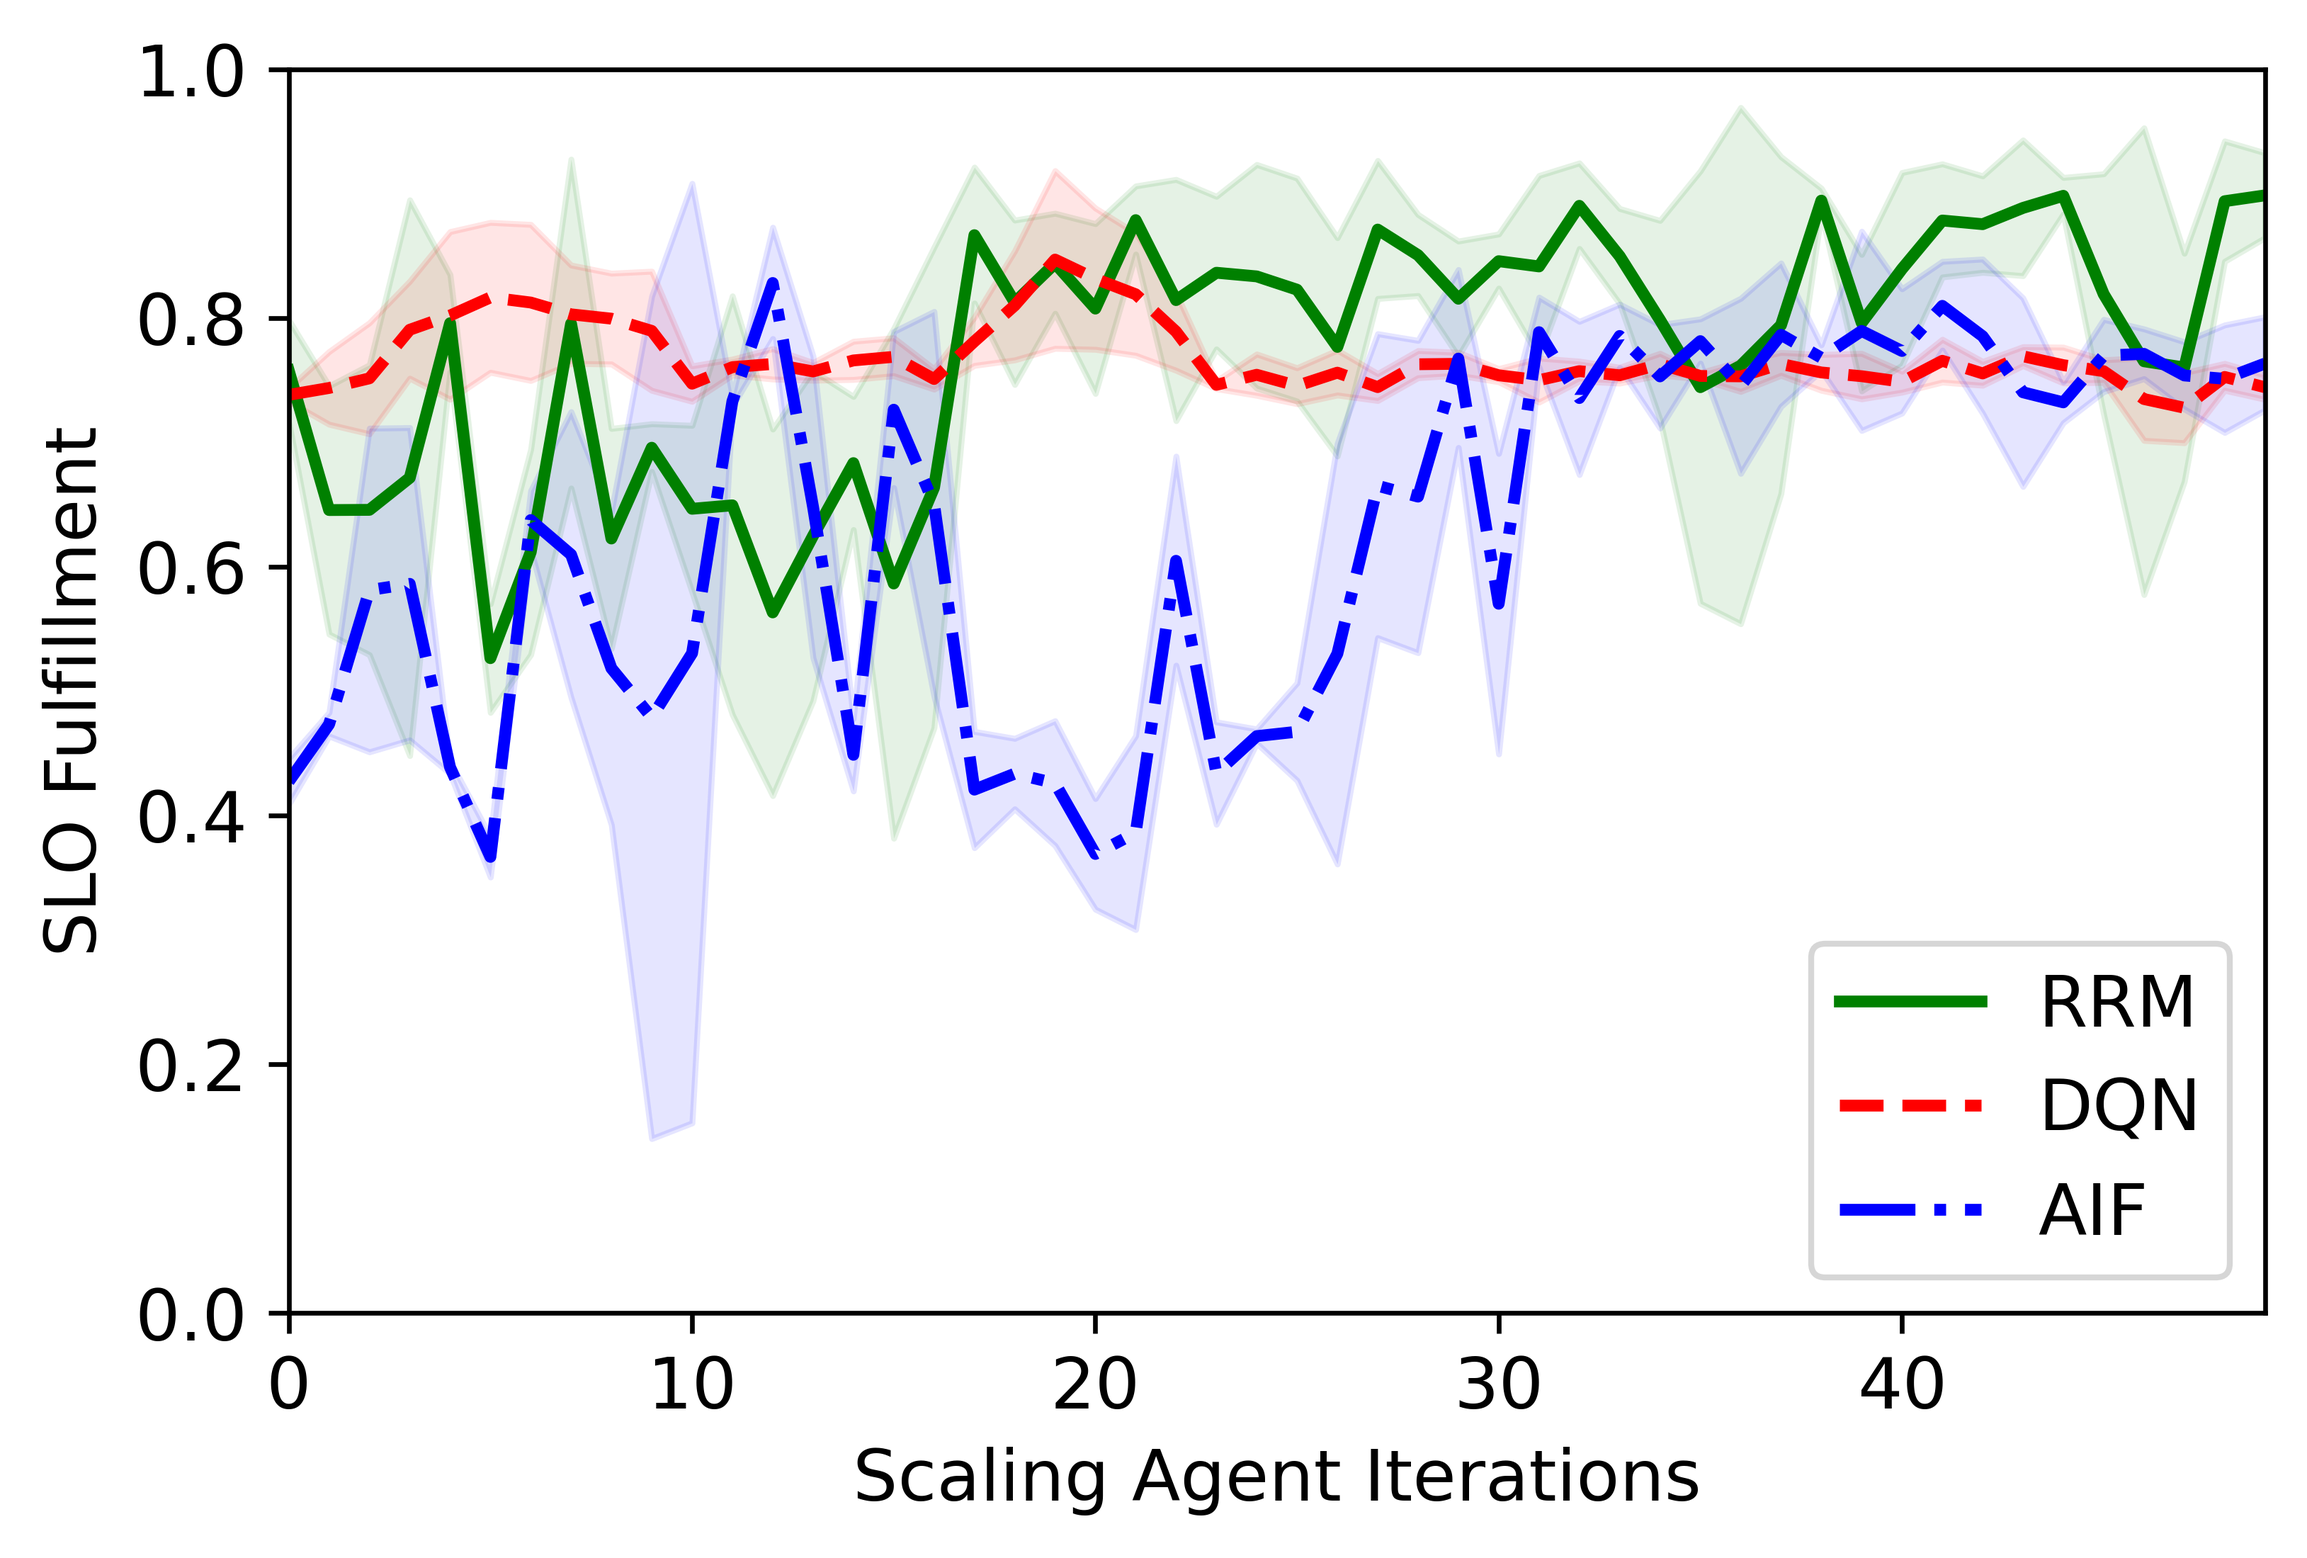
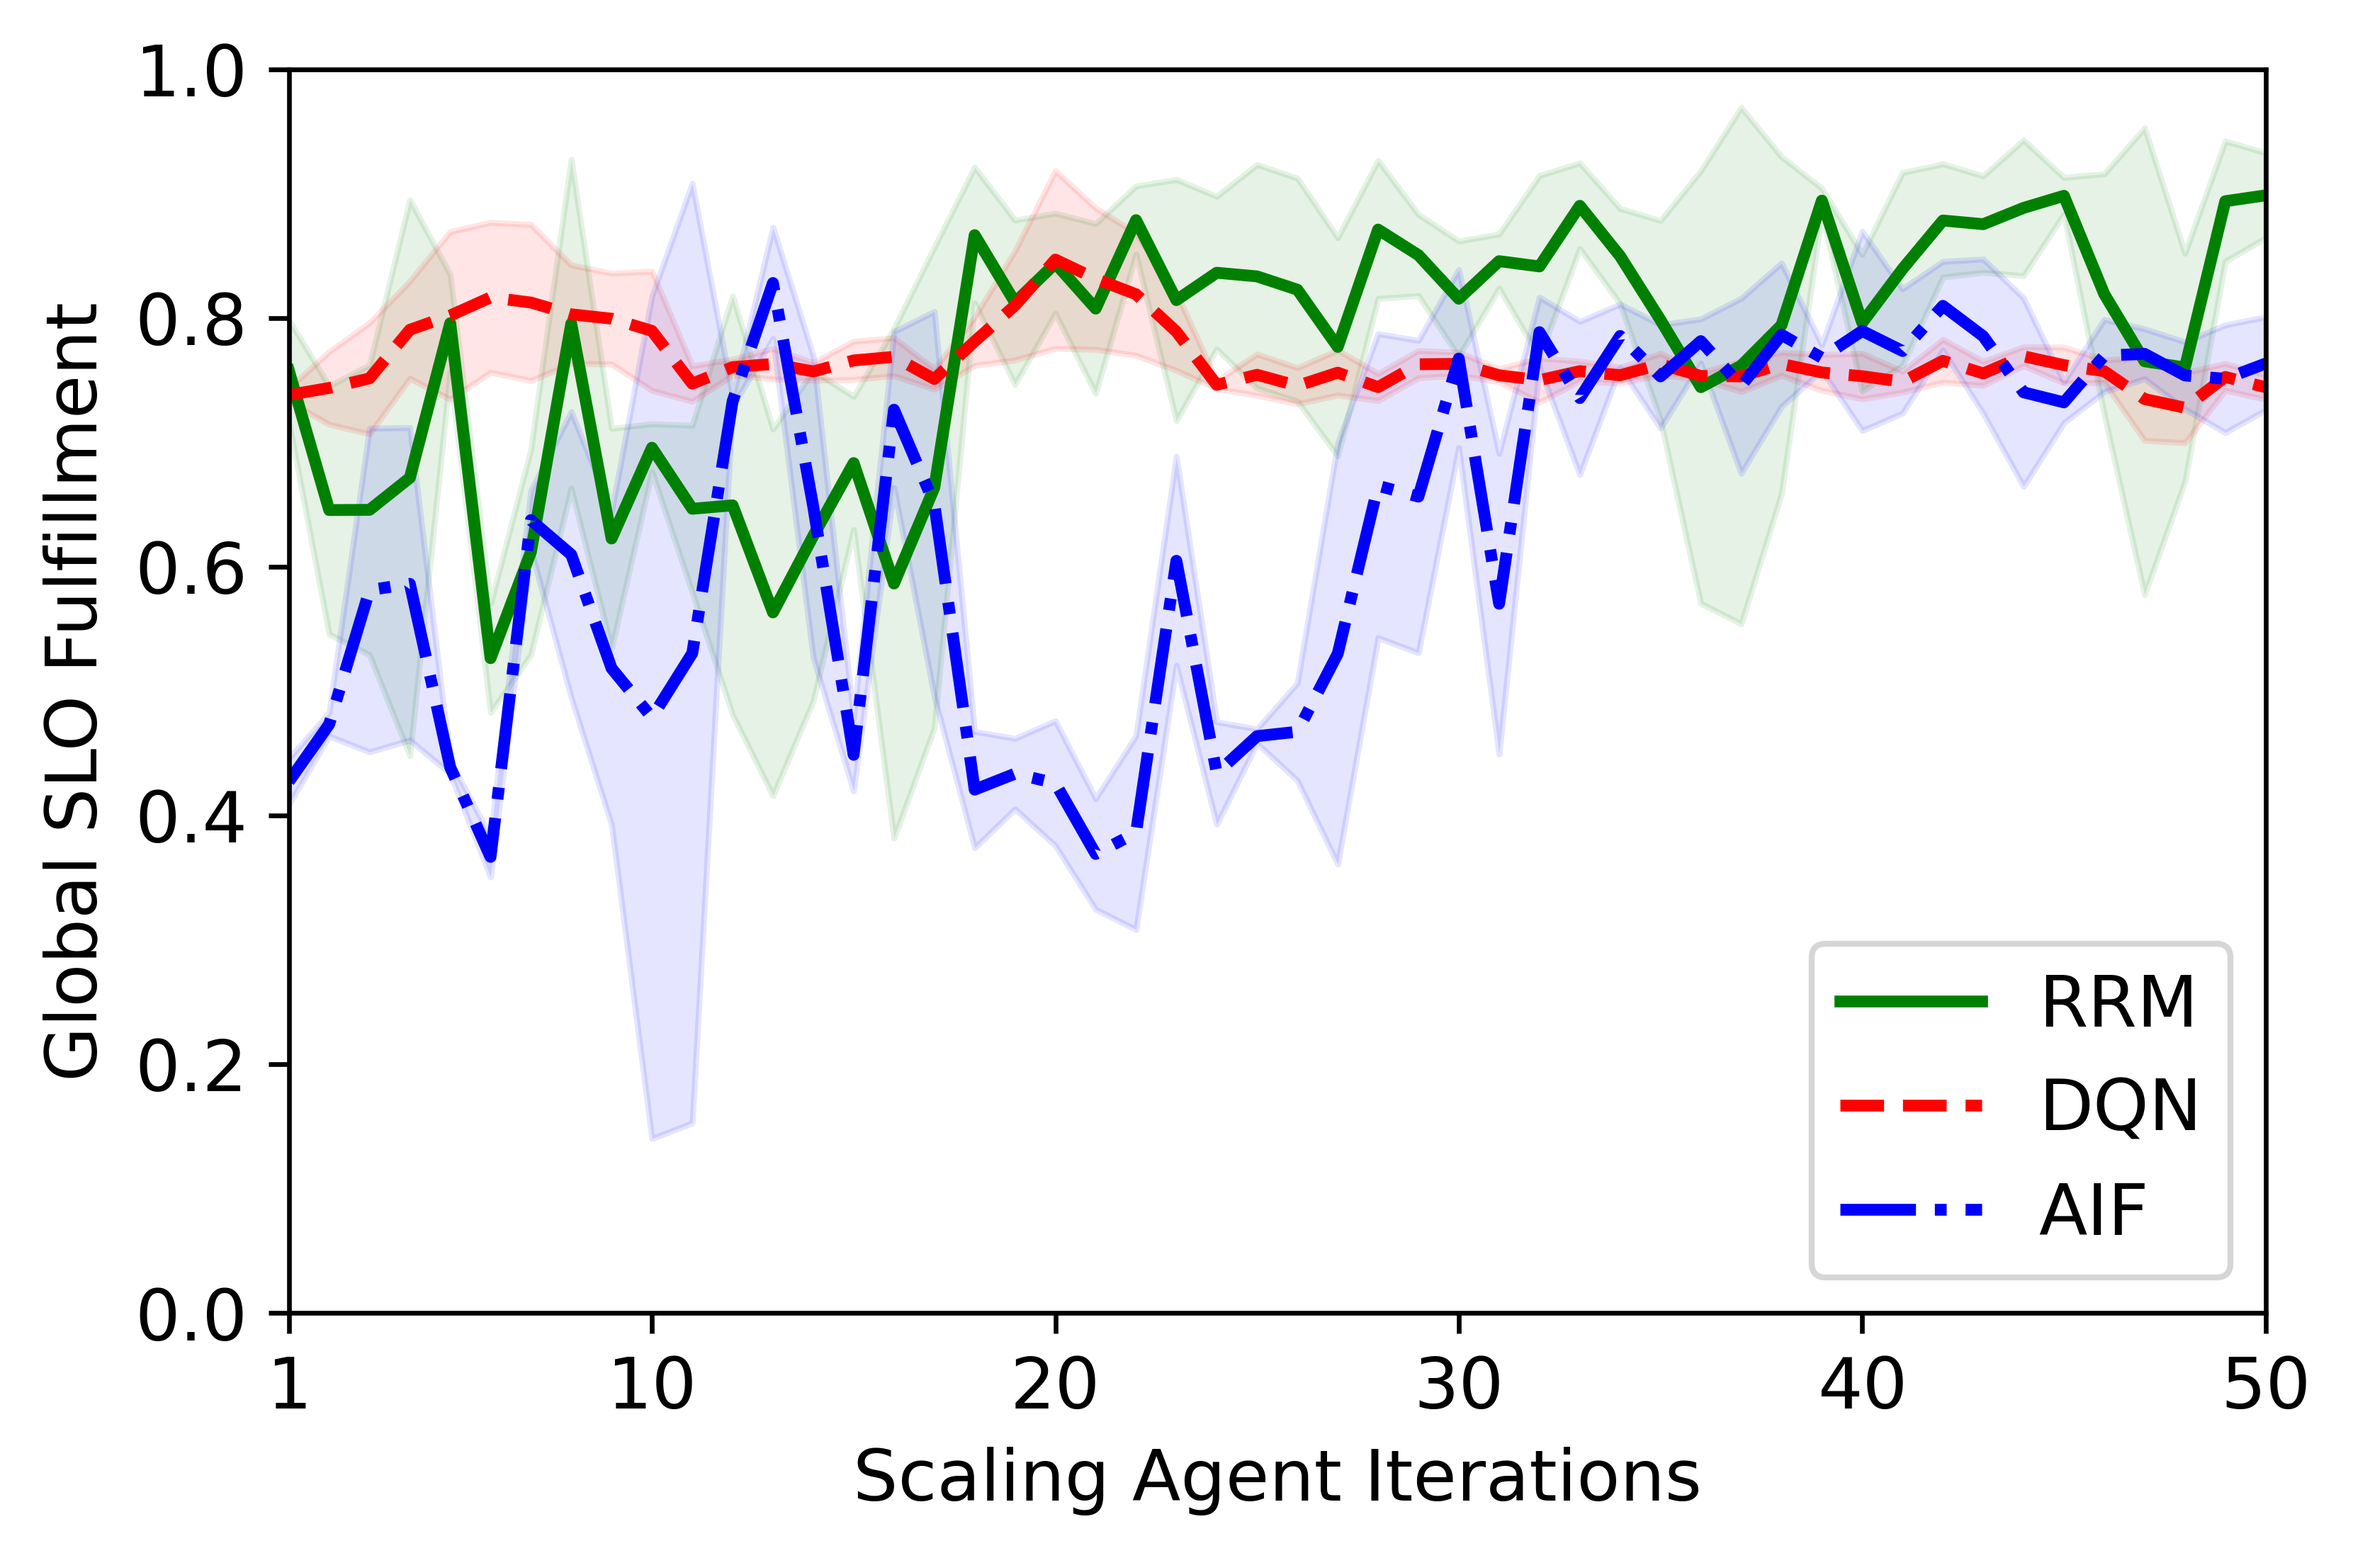
change figure slightly

diff --git a/experiments/iwai/B1/B1.py b/experiments/iwai/B1/B1.py
@@ -62,7 +62,8 @@ def visualize_data(agent_types: list[str], output_file: str):
 
     # changes_meth, changes_base = get_changed_lines(slof_files[0]), get_changed_lines(slof_files[1])
     df_layout = pd.read_csv(ROOT + f"/agent_experience_{agent_types[0]}.csv")
-    x = np.arange(len(df_layout.index) / (EXPERIMENT_REPETITIONS * 2))  # len(m_meth))
+    x = np.arange(1, len(df_layout.index) / (EXPERIMENT_REPETITIONS * 2) + 1)
+    # x = np.arange(len(df_layout.index) / (EXPERIMENT_REPETITIONS * 2))  # len(m_meth))
     plt.figure(figsize=(6.0, 3.8))
 
 
@@ -93,11 +94,12 @@ def visualize_data(agent_types: list[str], output_file: str):
     # plt.plot(x, m_base, label='Baseline VPA', color='black', linewidth=1.5)
     # plt.vlines([0.1, 10, 20, 30, 40], ymin=1.25, ymax=2.75, label='Adjust Thresholds', linestyles="--")
 
-    plt.xlim(0.0, len(df_layout.index) / (EXPERIMENT_REPETITIONS * 2) - 1)
+    plt.xlim(1.0, len(df_layout.index) / (EXPERIMENT_REPETITIONS * 2))
+    plt.xticks([1,10,20,30,40,50])
     plt.ylim(0.0, 1.0)
 
     plt.xlabel('Scaling Agent Iterations')
-    plt.ylabel('SLO Fulfillment')
+    plt.ylabel('Global SLO Fulfillment')
     plt.legend()
     plt.savefig(output_file, dpi=600, bbox_inches="tight", format="png")
     plt.show()
